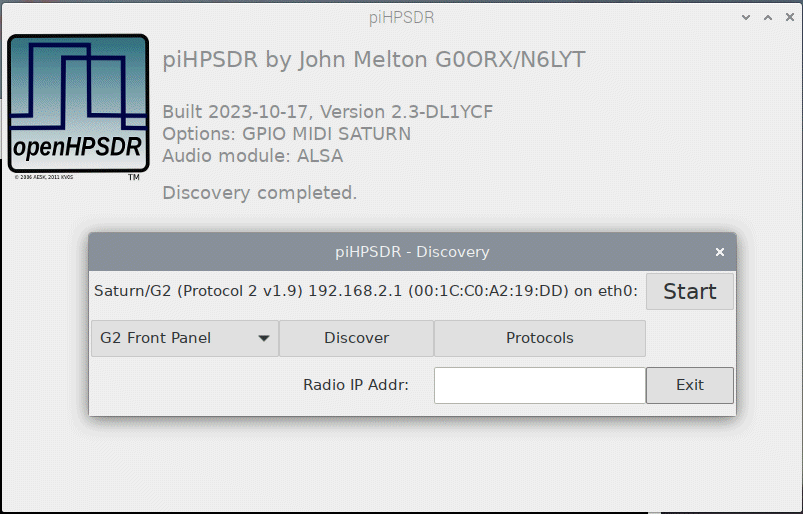
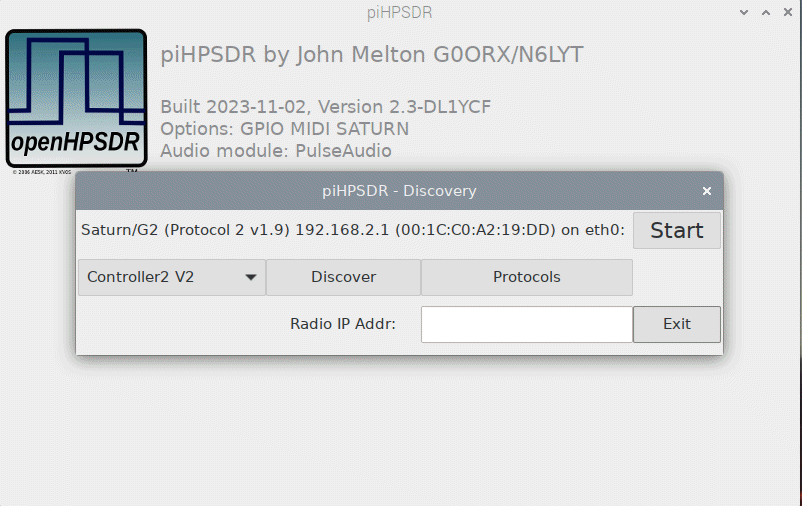
Manual: replaced some figures.

Changed region(s): [[0.0, 0.0, 1.0, 1.0]]

diff --git a/release/LatexManual/piHPSDR-Manual.tex b/release/LatexManual/piHPSDR-Manual.tex
@@ -250,7 +250,8 @@ when you first start piHPSDR.}
 of this manual.}
 \item[Controller2 V1]{This option is valid for some early prototypes of the "version 2" controller with
 single encoders. This special case is not covered in this manual.}
-\item[Controller2 V2]{Choose this if you have a "version 2" piHPSDR controller with double encocders.
+\item[Controller2 V2]{Choose this if you have a "version 2" piHPSDR controller with double encoders
+on a single shaft.
 This controller is denoted Controller2 in the rest of this manual.}
 \item[G2 Front Panel]{Choose this if you have an ANAN G2 radio with a built-in controller.}
 \end{itemize}
@@ -394,8 +395,9 @@ on the signal strength (red colour is reached for S9). The above
 picture demonstrates the four possible combinations, and in
 the \bltt{Display} menu, you can make your choice. This setting
 refers to both receivers when there are two. Note that the TX
-spectrum can be a filled one or a line spectrum, but that the
-gradient option does not apply.
+spectrum can be a filled one or a line spectrum (to be specified
+in the \bltt{TX} menu), but that there
+is nov gradient option.
 
 %%%%%%%%%%%%%%%%%%%%%%%%%%%%%%%%%%%%%%%%%%%%%%%%%%%%%%%%%%%%%%%%%%%%%%%%%%%%%%%%%%%%%%%%%%%%%%%%%%%%%%%%%%%%
 \section{Zoom and Pan}
@@ -436,6 +438,11 @@ RX scope, and marked with a thin red line. On the picture
 above, the dial frequency (14.100 MHz) is found in the RX
 panel close to the left edge, and this has been done
 by moving the \rett{Pan} slider.
+
+Note that the TX spectrum scope always has a fixed spectral
+width, namely 24 kHz in non-duplex mode when the TX spectrum
+scope is shown in the main window, and 6 kHz in duplex mode
+when the TX spectrum is shown in a small separate window.
 
 %%%%%%%%%%%%%%%%%%%%%%%%%%%%%%%%%%%%%%%%%%%%%%%%%%%%%%%%%%%%%%%%%%%%%%%%%%%%%%%%%%%%%%%%%%%%%%%%%%%%%%%%%%%%
 \section{The \texttt{Hide} button}
@@ -909,7 +916,8 @@ program but no re-boot or shutdown takes place, due to missing administrator pri
 \caption{The \bltt{About} menu.}
 \end{figure}
 
-The about menu gives you some information about piHPSDR, first the original author
+The about menu gives you some information about piHPSDR, first the original author,
+John Melton,
 and an (incomplete) list
 of persons who contributed to the code, and then a statement which version of piHPSDR
 is working here, and when it has been compiled. Here you also find the version number of the WDSP
@@ -917,7 +925,7 @@ is working here, and when it has been compiled. Here you also find the version n
 running under the hood, and which does nearly all of the signal processing. If you file a bug report,
 this is very important information so you should always include a screen shot of the \bltt{About}
 menu when reporting problems. Of particular importance is the so-called \rett{commit},
-this hexadecimal number (here: 1eeb375) identifies the exact status of the source code files
+this hexadecimal number (here: 8339957) identifies the exact status of the source code files
 when the program has been compiled. If a string \texttt{-dirty} is appended to the version number
 (here: 2.3-DL1YCF, that is, not dirty) this means that one or more files have been locally  modified
 and do not match the commit, and problem reports from a ,,dirty'' version are difficult to handle.
@@ -1286,11 +1294,15 @@ the spectrum scope. Lines are drawn at dBm values that are multiples of the step
 size.
 
 \rett{Waterfall High:} This is the RX dBm value that will lead to the brightest
-color (yellow) in the waterfall.
+color (yellow) in the waterfall. If the \rett{Waterfall Automatic:} box is checked
+(see below), this spin button is grayed out and inactive.
 
 \rett{Waterfall Low:} This is the RX dBm value below which the waterfall will be black.
+If the \rett{Waterfall Automatic:} box is checked
+(see below), this spin button is grayed out and inactive.
 
-\rett{Waterfall Automatic:} If this box is checked, the \rett{Waterfall High} and
+\rett{Waterfall Automatic:} If this box is checked (as is the case in
+Fig. \ref{fig:DisplayMenu}), the \rett{Waterfall High} and
 \rett{Waterfall Low} controls are inactive and the values are not used. Instead,
 the lowest and highest signal strength in the RX spectrum are automaticall determined
 in each update of the waterfall, and these min/max values
